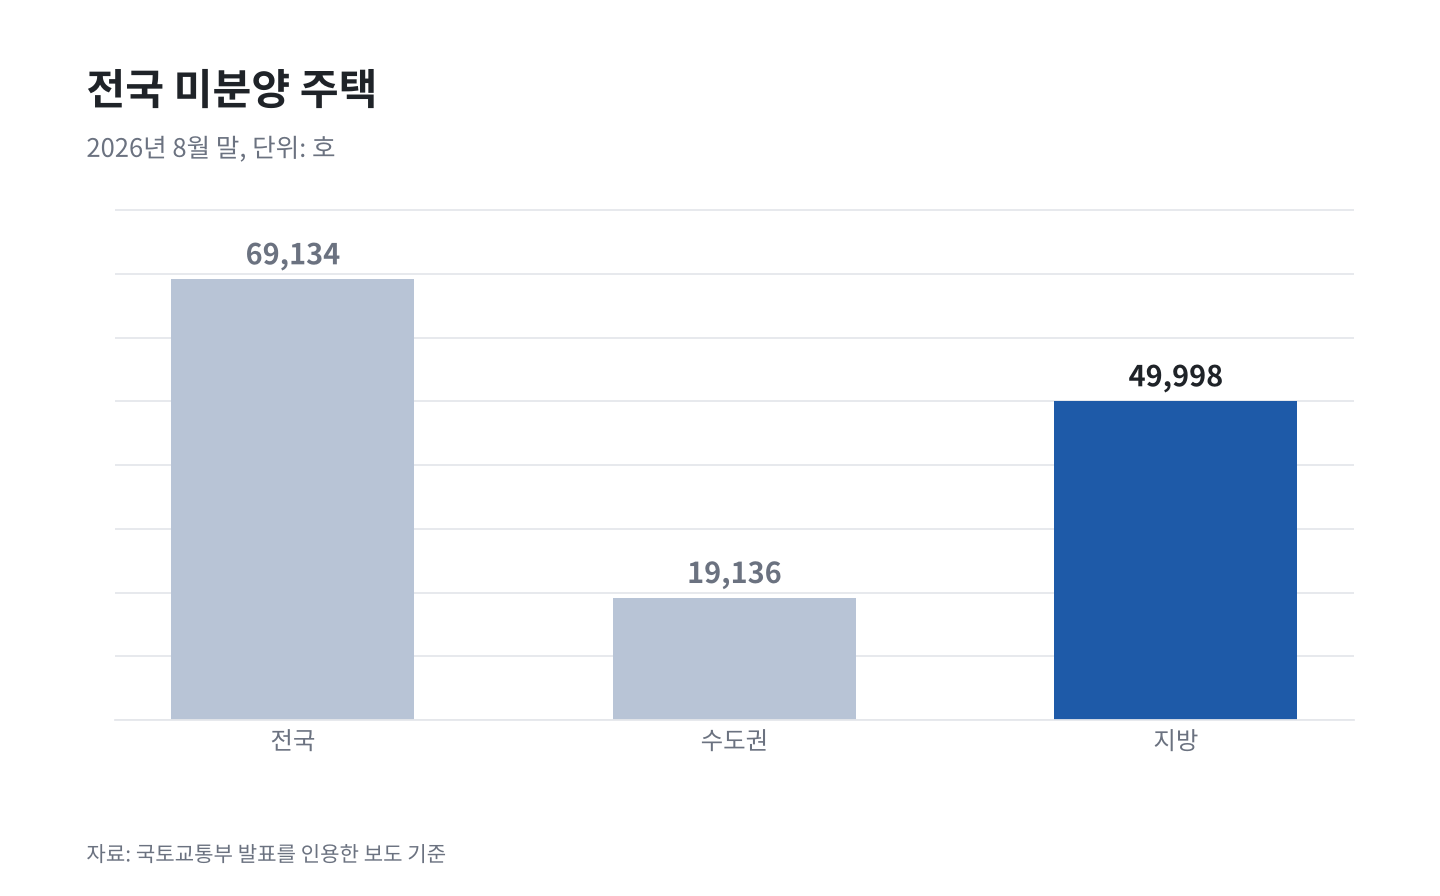
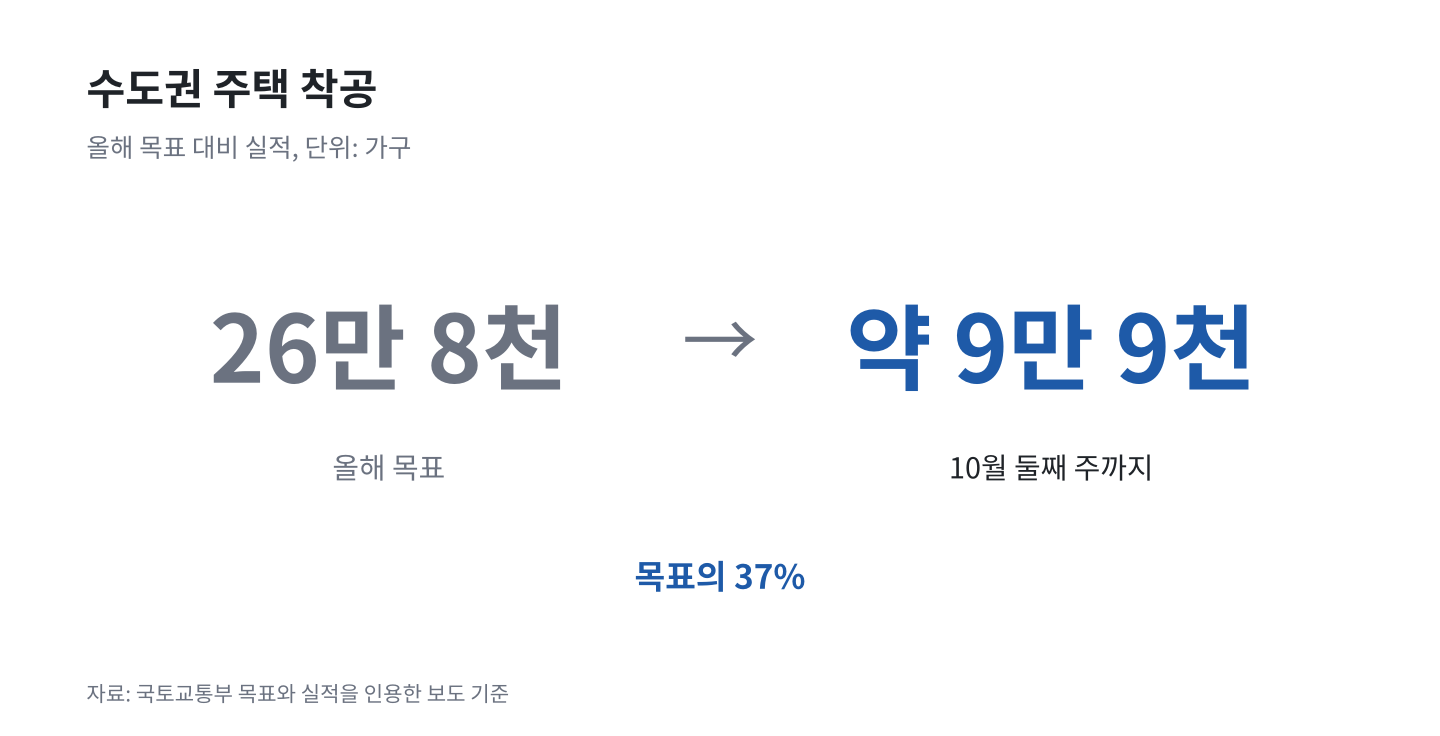
PF post: apply author edits, connect PF to Seoul housing supply
Claude-Session: https://claude.ai/code/session_011EpcWSU3z1DXi4f3c2KiAh

diff --git a/posts/2026-10-18-pf-delinquency/index.html b/posts/2026-10-18-pf-delinquency/index.html
@@ -19,29 +19,32 @@ img{max-width:100%;height:auto;display:block;}
 <p>금융위원회가 2026년 10월 13일 발표한 6월 말 기준 금융권 PF대출은 115조 8천억 원, 연체율은 4.56%다. 서울 아파트값은 86주 연속 오르는데 PF는 왜 흔들릴까.</p>
 </blockquote>
 
-<p>집은 짓기 전에 돈이 먼저 나간다. 땅을 사고 공사를 하는 몇 년 동안 쓸 돈을 빌려 주는 대출이 PF(프로젝트 파이낸싱)대출이다. 이 글은 PF가 무엇인지, 연체가 언제부터 왜 늘었는지를 본 뒤 서울 집값과 연결해 질문 하나를 던진다.</p>
+<p>집은 짓기 전에 돈이 먼저 나간다. 땅을 사고 공사를 하는 몇 년 동안 쓸 돈을 빌려 주는 대출이 바로 PF(프로젝트 파이낸싱)대출이다.</p>
+<p>이번 글에서는 PF가 구체적으로 무엇인지, 연체가 언제부터, 왜 늘었는지를 살펴본 뒤 서울 집값과 연결해 맥락을 파악해 보자.</p>
 
 <h2>PF대출은 무엇일까</h2>
-<p>주택담보대출은 집과 소득을 보고 빌려준다. PF는 아직 짓지도 않은 아파트가 나중에 팔려서 들어올 분양대금이 갚을 돈이다. 사업이 잘되면 돌려받는다는 믿음이 담보인 셈이다. 시행사가 땅을 사는 초기 단계의 대출이 브릿지론, 인허가 뒤 공사비를 대는 대출이 본PF다.</p>
-<p>숫자로 보자. 500세대를 짓는 사업을 가정한다. 세대당 분양가가 6억 6천만 원이면 분양수입은 3,300억 원이고 총사업비는 3,000억 원이다. 시행사 자기자본이 5%인 150억 원이면 2,850억 원을 빌린다. 금리가 연 8%면 이자만 한 달에 19억 원이다(2,850억 × 8% ÷ 12). 금융위가 설명한 국내 PF 사업의 시행사 자기자본비율 3~5%(보도 기준)에 맞춘 가정이다.</p>
+<p>PF는 쉽게 설명하면, 아직 짓지도 않은 아파트에 돈을 빌려준 뒤, 나중에 집이 팔려서 들어올 분양대금으로 상환을 하는 구조의 대출이다. 사업이 잘되면 돌려받는다는 믿음이 담보인 셈이다. 민간사업 시기에 따라 구분해보면, 시행사가 땅을 사는 초기 단계의 대출이 브릿지론, 인허가 뒤 공사비를 대는 대출이 본PF다.</p>
+<p>PF대출을 숫자의 예시로 보자. 500세대를 짓는 사업을 가정한다. 세대당 분양가가 6억 6천만 원이면 분양수입은 3,300억 원이고 총사업비는 3,000억 원이다. 시행사 자기자본이 5%인 150억 원이면 2,850억 원을 빌린다. 금리가 연 8%면 이자만 한 달에 19억 원이다(2,850억 × 8% ÷ 12). 금융위가 설명한 국내 PF 사업의 시행사 자기자본비율 3~5%(보도 기준)에 맞춰 가정을 두었다. 사업만 계획대로 흘러간다면 사업시행자는 자기자본 150억 원으로 PF대출 2,850억 원을 일으켜, 시행이익 300억 원을 결과로 만들 수 있는 것이다.</p>
 <img src="https://angryoonpark-source.github.io/blog-images/posts/2026-10-18-pf-delinquency/01.png" width="720" alt="가정한 아파트 사업의 돈 구조">
 
-<h2>연체는 언제부터, 왜 늘었을까</h2>
+<h2>PF대출 연체는 언제부터, 왜 늘었을까</h2>
 <p>금융권 PF 연체율은 2023년 12월 말 2.70%에서 2025년 3월 말 4.49%로 뛰었다. 2025년 12월 말에는 3.88%까지 내려갔는데, 금융위는 경매·공매 등 부실 사업장 정리를 이유로 들었다. 2026년 3월 말 4.65%로 다시 올랐고 6월 말은 4.56%다.</p>
 <img src="https://angryoonpark-source.github.io/blog-images/posts/2026-10-18-pf-delinquency/02.png" width="720" alt="금융권 PF대출 연체율">
-<p>원인은 금리, 공사비, 미분양이다. 기준금리는 2021년 8월 연 0.5%에서 2022년 11월 3.25%까지 올랐고, 2022년 하반기 레고랜드 사태로 자금시장이 얼어붙었다. 건설공사비지수는 2020년보다 34.4% 올랐다는 보도가 있다. 평균은 한숨 돌린 듯해도 상호금융은 다르다. PF 연체율이 3월 말 5.51%에서 6월 말 10.79%로 뛰었다.</p>
+<p>원인은 금리, 공사비, 미분양이다. 기준금리는 2021년 8월 연 0.5%에서 2022년 11월 3.25%까지 올랐고, 2022년 하반기 레고랜드 사태를 시작으로 자금시장이 얼어붙었다. 건설공사비지수는 2020년보다 무려 34.4% 올랐다는 보도가 있다. 연체율이 살짝 낮아지면서 평균은 한숨 돌린 듯해도 상호금융은 다르다. PF 연체율이 3월 말 5.51%에서 6월 말 10.79%로 뛰었다.</p>
 <img src="https://angryoonpark-source.github.io/blog-images/posts/2026-10-18-pf-delinquency/03.png" width="720" alt="상호금융 PF대출 연체율">
 
-<h2>자기자본 5%는 얼마나 얇을까</h2>
-<p>앞의 가정 사업에서 공사비가 15% 오르고 분양가가 10% 내리면 수입은 2,970억 원, 비용은 3,255억 원이 되어 285억 원 적자다. 준공이 6개월 늦어 이자 114억 원이 더 붙으면 적자는 399억 원이다. 자기자본 150억 원을 넘는 249억 원은 빌려준 쪽이 떠안을 수 있다. 실제로는 시공사 보증 등으로 손실을 나누는 방식이 사업마다 달라 단순화한 계산이다.</p>
+<h2>자기자본 5%는 얼마나 위험할까</h2>
+<p>앞서 가정한 사업에서 악재를 가정해보자. 공사비가 15% 오르고 분양가가 10% 내리면 수입은 2,970억 원, 비용은 3,255억 원이 되어 285억 원 사업손실(적자)이 된다. 여기에 준공이 6개월 늦어 이자 114억 원이 더 붙으면 적자는 399억 원이다. 적자 약 400억 원 중 내가 초기에 투입한 자기자본 150억 원을 넘는 250억 원은 온전히 빌려준 쪽이 떠안을 수 있다.</p>
 <img src="https://angryoonpark-source.github.io/blog-images/posts/2026-10-18-pf-delinquency/04.png" width="720" alt="같은 사업에 충격이 겹치면">
-<p>그래서 금융위는 시행사 자기자본비율을 2027년부터 단계적으로 20%까지 올리기로 했다. 다만 20%는 600억 원이어서 사업 문턱이 높아진다. 10월 13일에는 주거용 적용을 2년 미뤘다.</p>
+<p>따라서 금융위는 시행사 자기자본비율을 2027년부터 단계적으로 20%까지 올리기로 했다(주거용 적용은 2년 유예).</p>
 
 <h2>서울 집값과는 무슨 관계일까</h2>
-<p>한국부동산원 집계를 인용한 보도에 따르면 서울 아파트값은 9월 말 86주 연속 올랐다. 그런데 미분양은 지방에 몰려 있다. 2026년 8월 말 전국 6만 9,134호 중 4만 9,998호가 지방이다. 분양전망지수도 서울 105.7, 비수도권 80.2로 갈린다(주택산업연구원, 10월). 위험은 지방에, 가격 상승은 서울에 있다.</p>
-<img src="https://angryoonpark-source.github.io/blog-images/posts/2026-10-18-pf-delinquency/05.png" width="720" alt="전국 미분양 주택">
-<p>서울 공급을 늘리려 PF를 풀면 지방 부실이 커질 수 있고, 지방 부실을 막으려 조이면 서울 착공이 줄 수 있다. 한 가지 정책으로 두 지역을 같이 다룰 수 있을까.</p>
-<p>독자에게 묻고 싶다. 서울 집값 상승과 지방 PF 부실은 하나의 문제일까, 두 개의 문제일까. 시행사 자기자본을 20%로 올리면 부실은 줄겠지만 공급도 줄 텐데, 어느 쪽을 더 무겁게 봐야 할까.</p>
-<p>이 글은 2026년 10월 18일 기준 작성자의 개인 의견이며 소속 금융기관의 입장과 무관하다. 숫자는 공공기관 자료를 인용한 보도 기준이고 시나리오는 가정에 따른 직접 계산이다. 투자 권유가 아니다.</p>
+<p>PF는 집값과 시간차를 두고 이어진다. PF가 막히면 착공이 줄고, 착공이 줄면 2~3년 뒤 입주가 줄기 때문이다. 2025년 전국 착공은 27만 2,685가구로 전년보다 10.1% 줄었다(국토교통부 통계를 인용한 보도). 한 보도는 2022년 이후 인허가·착공이 줄어든 영향이 지금 공급 부족으로 나타난다고 해석했다. 집계마다 다르지만 2027년 서울 입주 예정 물량은 1만 3천~1만 8천 호 선으로, 적정하다고 보는 연 4만 5천 호의 절반에도 못 미친다. 서울 아파트값이 9월 말 86주 연속 오른 배경으로 이 공급 부족 전망이 거론된다.</p>
+<p>지금도 같은 일이 되풀이될 수 있다. 정부가 잡은 올해 수도권 착공 목표는 26만 8천 호인데, 10월 둘째 주까지 약 9만 9천 호로 목표의 37%에 그쳤다. 걸림돌로 공사비 갈등과 PF 시장 위축이 꼽힌다. 서울 집값을 안정시키려면 착공이 늘어야 하고, 착공이 늘려면 PF가 돌아야 한다.</p>
+<img src="https://angryoonpark-source.github.io/blog-images/posts/2026-10-18-pf-delinquency/05.png" width="720" alt="수도권 주택 착공">
+<p>문제는 PF 부실이 서울이 아니라 지방에 몰려 있다는 점이다. 2026년 8월 말 전국 미분양 6만 9,134호 중 4만 9,998호가 지방이다. PF를 풀어 서울 공급을 늘리면 지방 부실이 커질 수 있고, 지방 부실을 막으려 조이면 서울 착공이 줄어 몇 년 뒤 집값 부담으로 돌아올 수 있다.</p>
+<img src="https://angryoonpark-source.github.io/blog-images/posts/2026-10-18-pf-delinquency/06.png" width="720" alt="전국 미분양 주택">
+<p>독자에게 묻고 싶다. 서울 집값을 안정시키려 PF를 다시 풀어야 한다면, 지방 부실이라는 부담은 누가 어떻게 나눠야 할까. 시행사 자기자본을 20%로 올리면 부실은 줄겠지만 착공도 줄 텐데, 어느 쪽을 더 무겁게 봐야 할까.</p>
+<p>이 글은 2026년 10월 19일 기준 작성자의 개인 의견이며 소속 금융기관의 입장과 무관하다. 숫자는 공공기관 자료를 인용한 보도 기준이고 시나리오는 가정에 따른 직접 계산이다. 투자 권유가 아니다.</p>
 </body>
 </html>
